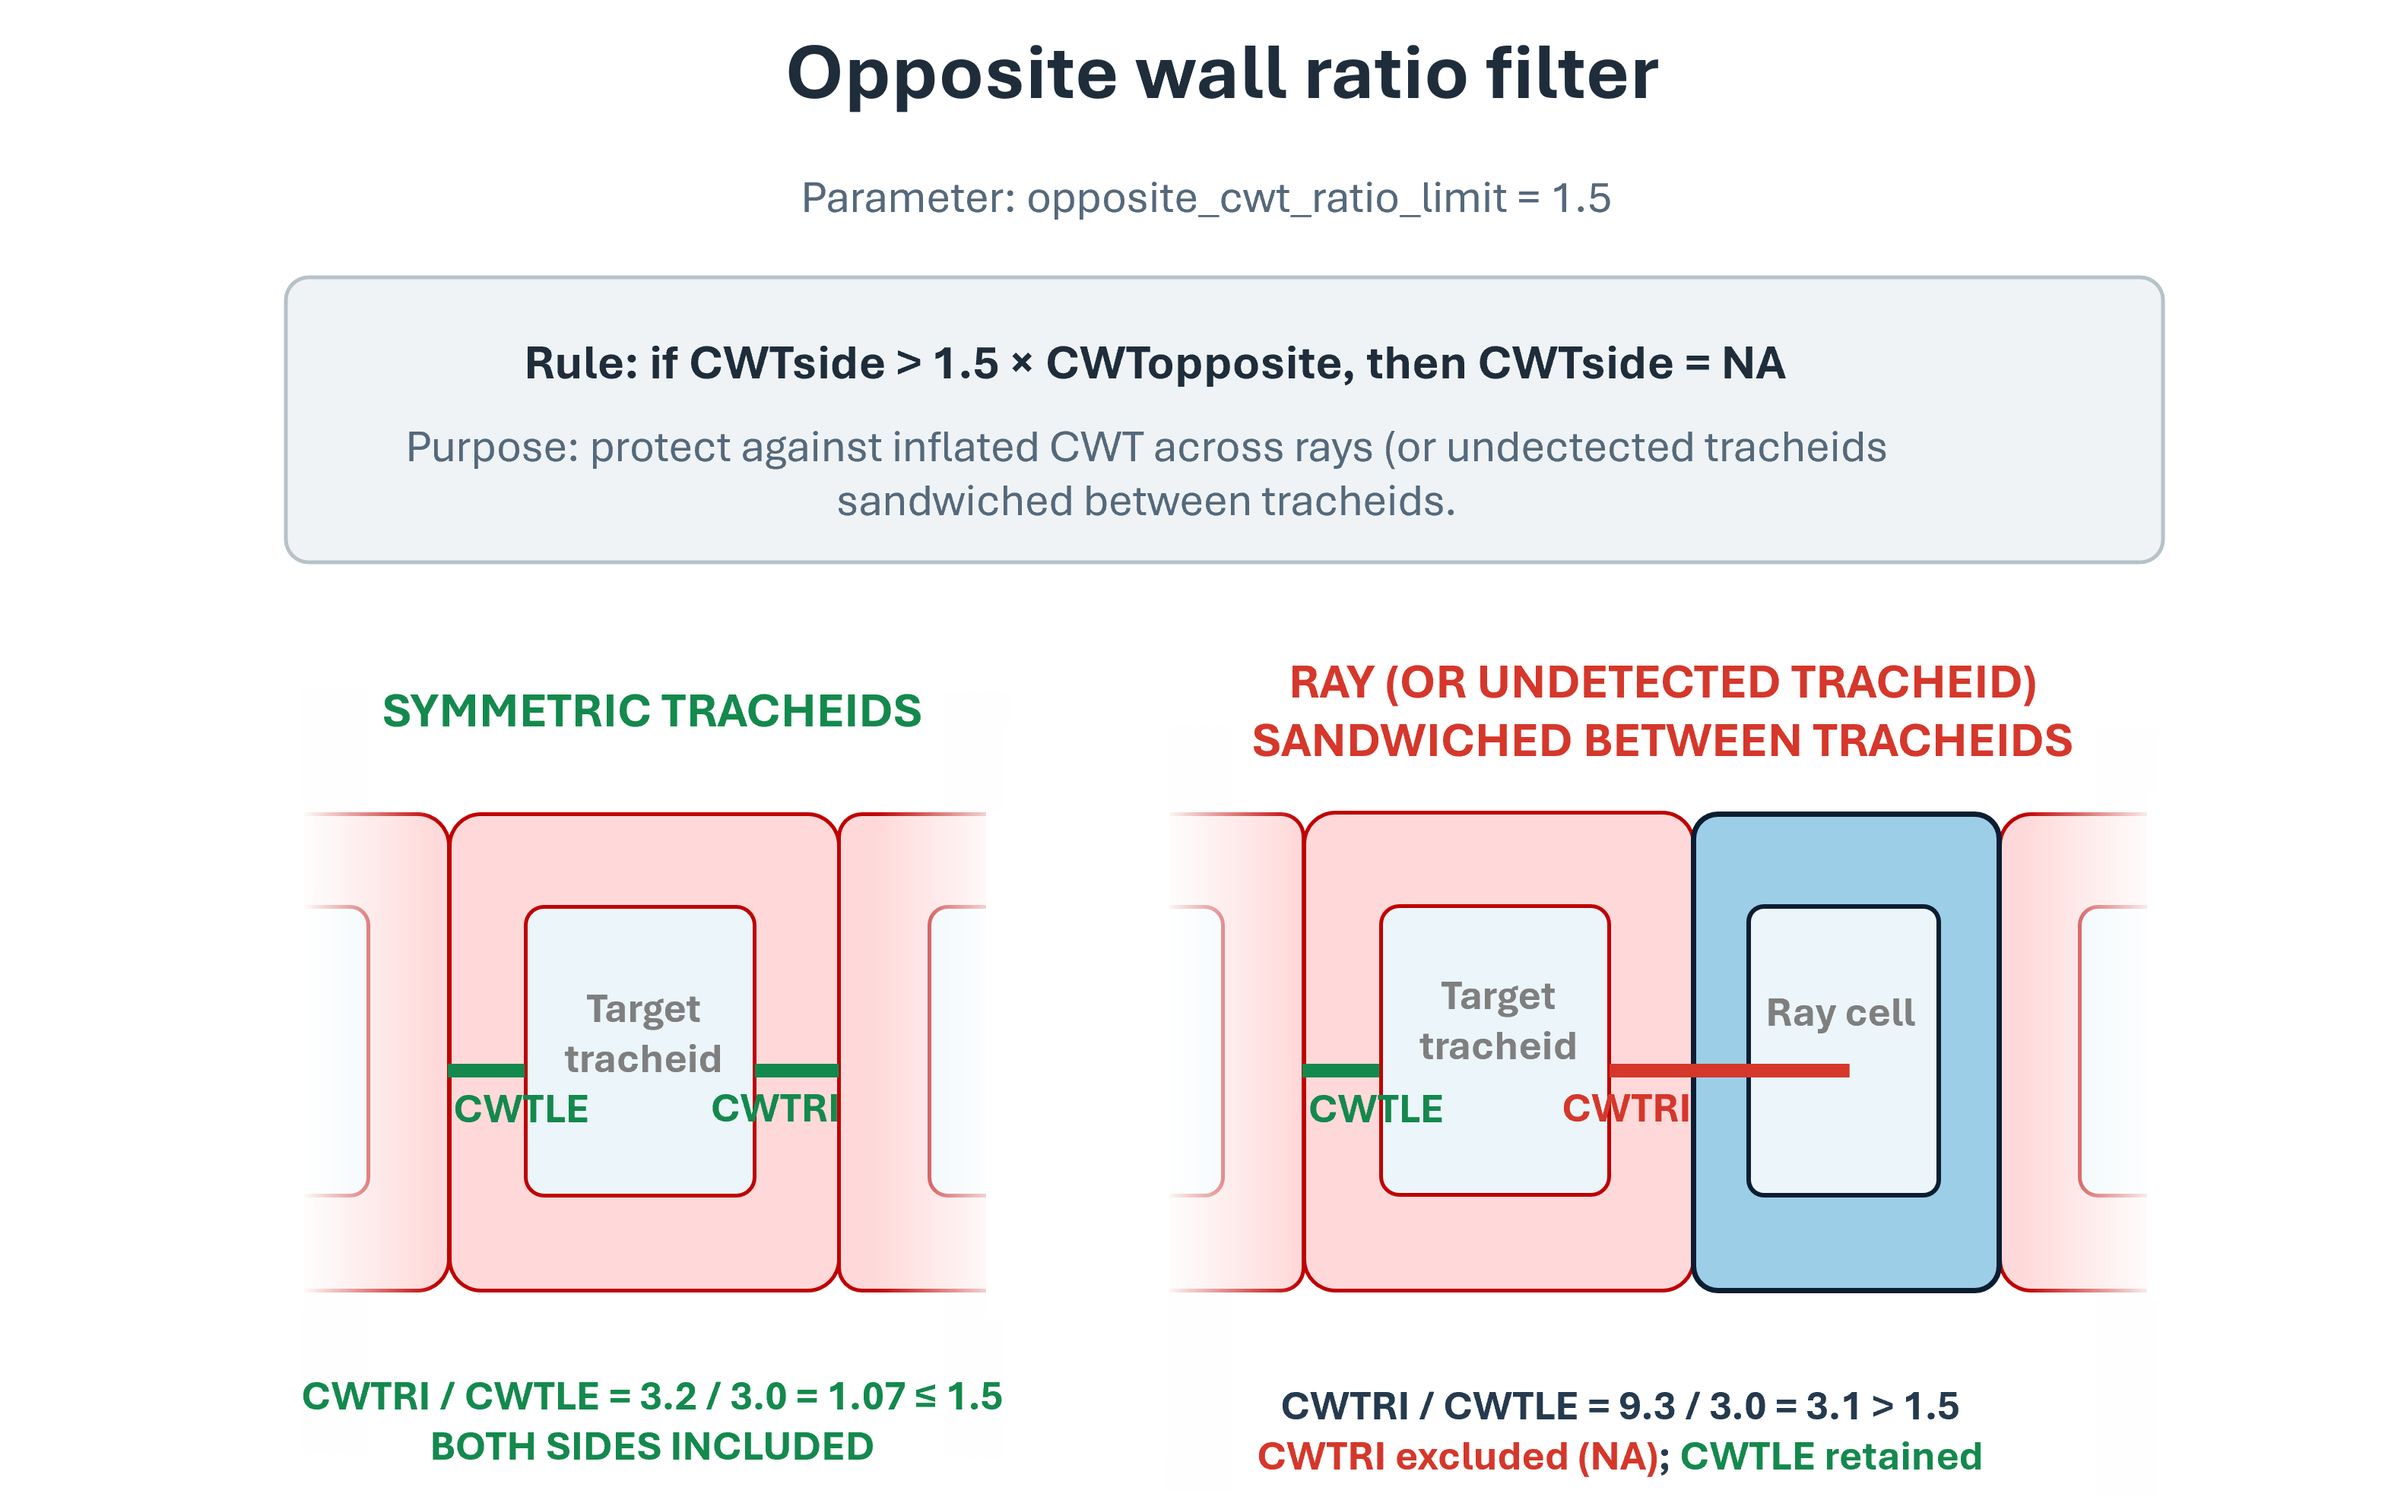
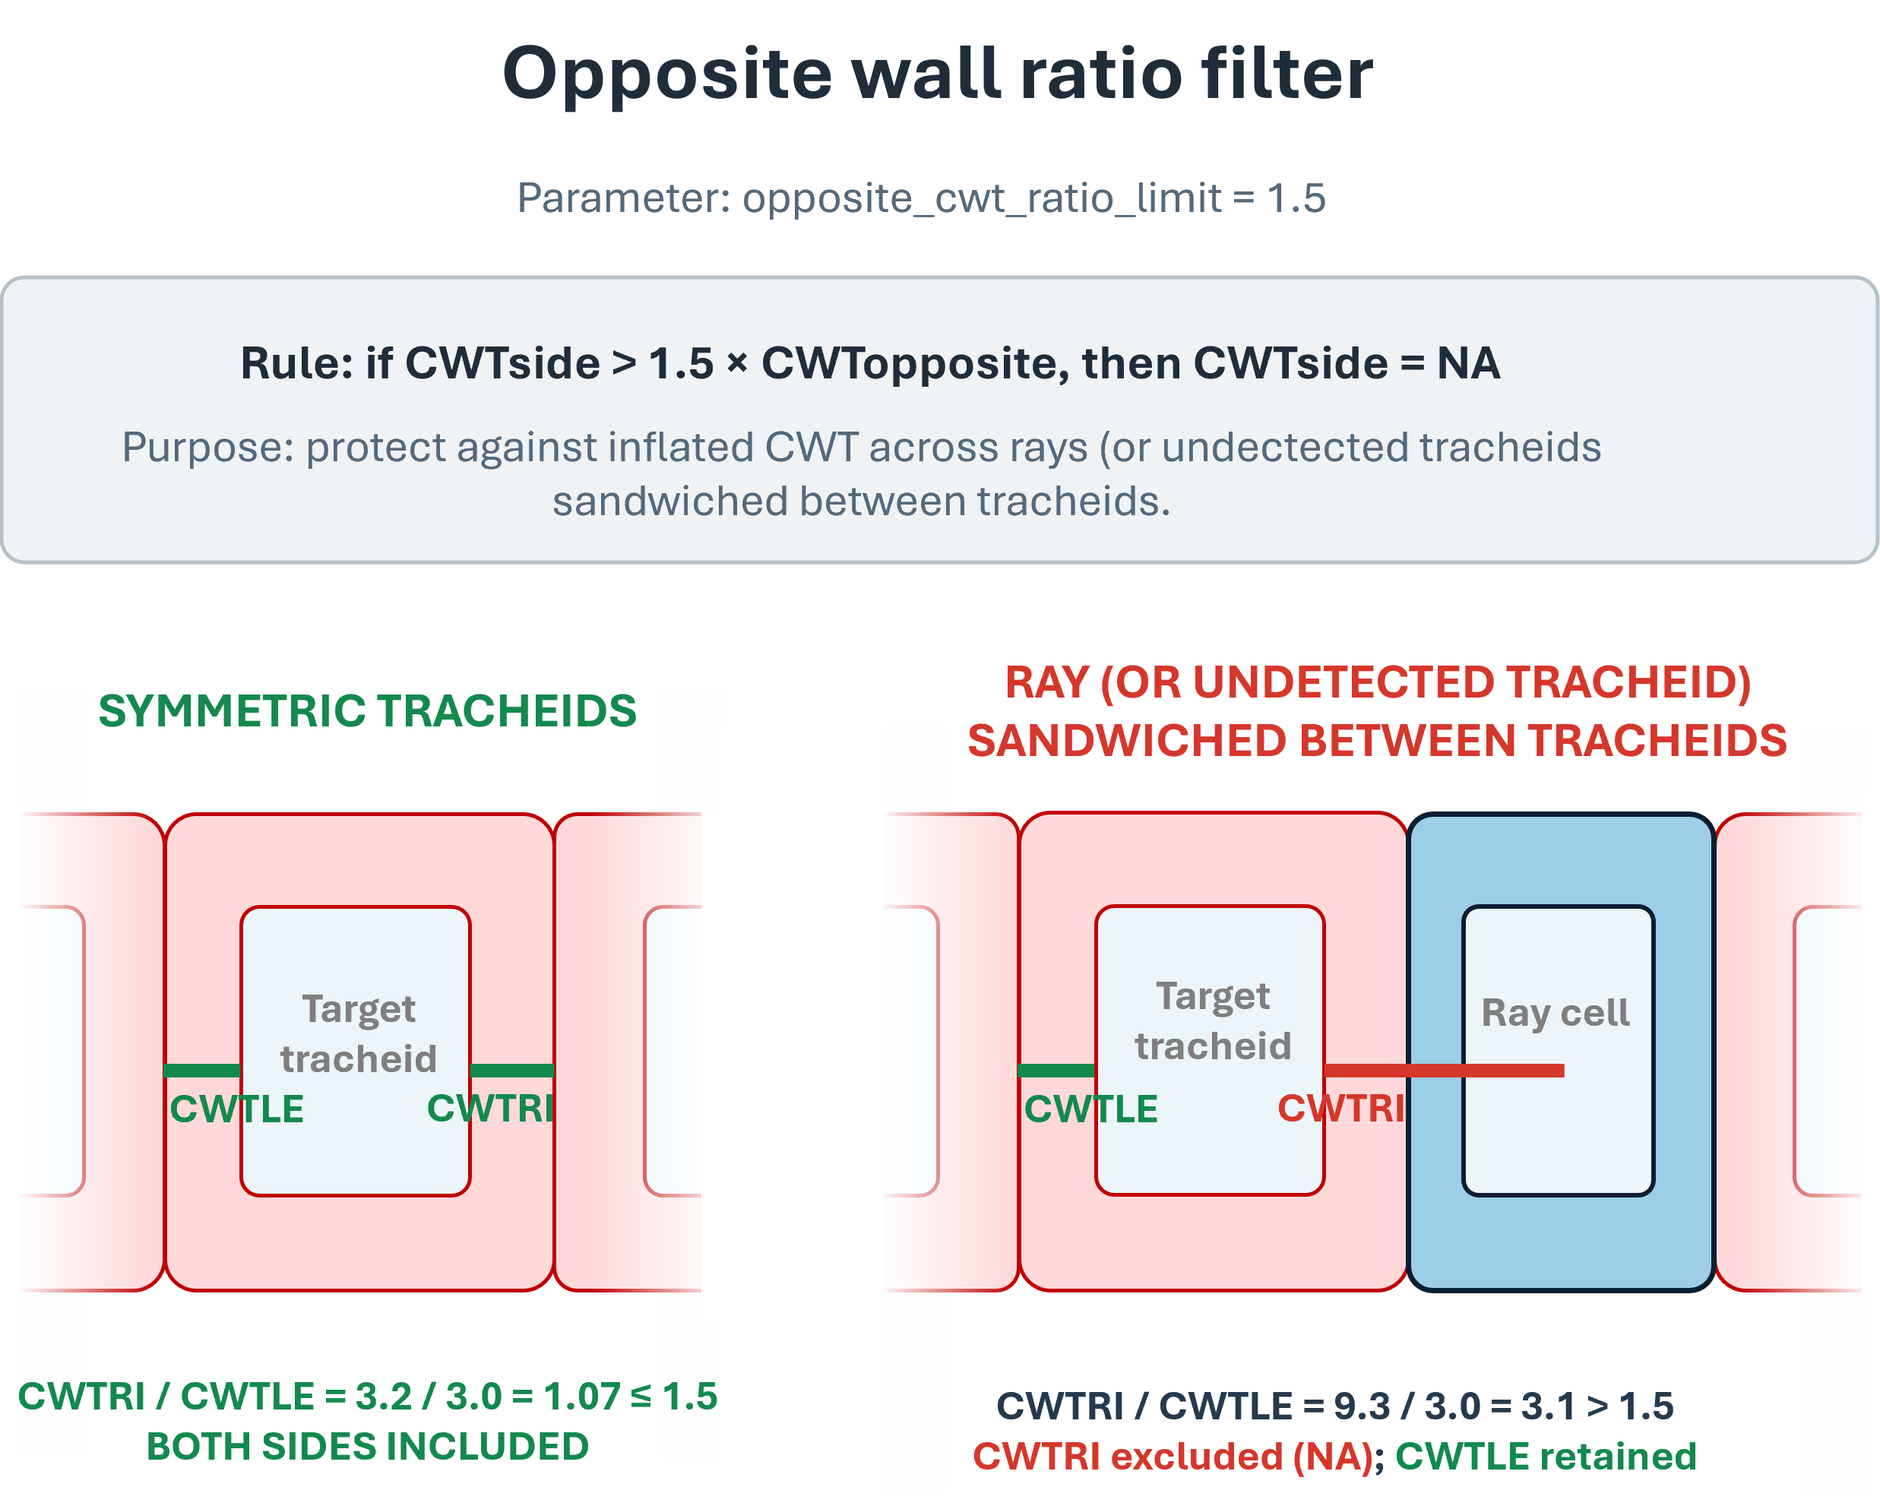
Update technical reference: add algorithm details, improve filter rules, and refine formatting for clarity and consistency.

diff --git a/docs/reference/technical_reference.md b/docs/reference/technical_reference.md
@@ -159,15 +159,23 @@ To obtain robust, artifact-free anatomical measurements, ROXAS AI applies automa
 
 *Figure 3: Definition of tangential and radial wall orientations and the central measurement integration span.*
 
+#### Cell Wall Identification Algorithm
+To measure the cell wall thickness of individual cells from segmented lumen masks, ROXAS AI uses an automated Euclidean distance and watershed-based approach:
+
+1. **Lumen Boundaries & Euclidean Distance Mask:** Based on the segmented cell lumina, an inverted binary mask is created where background and cell walls are foreground pixels. A Euclidean distance transform is calculated across this mask, computing the exact spatial distance of every wall pixel to the nearest cell lumen boundary.
+2. **Watershed Mask & Middle Lamella Approximation:** A watershed segmentation algorithm is computed between adjacent cell lumina to detect the contact boundary (the watershed line) between neighboring tracheids. Following Prendin et al. (2017), the exact position of the middle lamella separating two adjacent cells cannot be resolved directly from optical lumen contours alone; it is therefore geometrically approximated by assuming that each wall of two adjacent sharing cells has equal thickness (i.e., the middle lamella is located equidistant between the two lumina along the watershed ridge).
+3. **Lateral Integration:** For each of the four anatomical wall sectors (`CWTPI`, `CWTBA`, `CWTLE`, `CWTRI`), distance values are sampled along the watershed line. To avoid geometric distortion at rounded cell corners, measurements are laterally integrated over the central portion of the wall (defined by `relwidth_cwt_integration`, default: 75%).
+
+#### Wall Sectors & Aggregated Metrics
 For each conifer tracheid, cell walls are measured across four distinct anatomical orientations:
 
 - **Tangential walls:** `CWTPI` (pith-facing, top) and `CWTBA` (bark-facing, bottom).
 - **Radial walls:** `CWTLE` (left) and `CWTRI` (right).
 - **Integration span:** Wall thicknesses are integrated over the central span of each wall segment (defined by `relwidth_cwt_integration`, default: 75%) to avoid corner-rounding biases.
 - **Aggregated metrics:**
-  - Tangential mean: `CWTTAN` = (`CWTPI` + `CWTBA`) / 2
-  - Radial mean: `CWTRAD` = (`CWTLE` + `CWTRI`) / 2
-  - Overall mean: `CWTALL` = (`CWTTAN` + `CWTRAD`) / 2
+    - Tangential mean: `CWTTAN` = (`CWTPI` + `CWTBA`) / 2; or any of the two if the other **NA**
+    - Radial mean: `CWTRAD` = (`CWTLE` + `CWTRI`) / 2; or any of the two if the other **NA**
+    - Overall mean: `CWTALL` = (`CWTTAN` + `CWTRAD`) / 2; or any of the two if the other **NA**
 
 ### 2. Global IQR Distribution Filter / Tukey's Fences (Figure 4)
 
@@ -179,18 +187,18 @@ To exclude segmentation debris, extreme clumps, or sub-pixel erosion artifacts, 
 
 - **Lower Limit:** $\max(Q_1 - 1.5 \cdot \text{IQR},\, 1\text{ pixel in }\mu\text{m})$ (controlled by `lower_limit_cwt_iqr_multiplier`)
 - **Upper Limit:** $Q_3 + 3.0 \cdot \text{IQR}$ (controlled by `upper_limit_cwt_iqr_multiplier`)
-- Values falling outside $[LL, UL]$ are set to **blank (NA)**.
+- Values falling outside **Lower Limit:** or **Upper Limit:** are set to **blank (NA)**.
 
 ### 3. Opposite Wall Ratio Filter (Figure 5)
 
-![Opposite Wall Ratio Filter](../assets/cwt_opposite_wall_ration_filter.png)
+![Opposite Wall Ratio Filter](../assets/cwt_opposite_wall_ration_filter.png){ width="80%" }
 
 *Figure 5: Opposite wall ratio filter identifying and removing inflated wall measurements bordering ray cells.*
 
 In conifer xylem, opposing walls of a single tracheid have comparable thicknesses unless bordering a different cell type (such as wood ray cells) or an intercellular gap.
 
 - **Rule:** If the thickness of one wall exceeds `opposite_cwt_ratio_limit` $\cdot$ opposing wall thickness (default threshold: 1.5), the inflated side is excluded (**NA**), while the valid opposing side is retained.
-- **Anatomical context:** When a uniseriate ray cell is sandwiched between two tracheid files, the apparent distance measured across the ray between the tracheid lumina (`CWTRI`) becomes overly large compared to the regular tracheid-to-tracheid wall (`CWTLE`). The filter discards `CWTRI` while retaining `CWTLE`.
+- **Anatomical and technical context:** Because the distance-to-watershed algorithm assumes equal double-wall thickness between adjacent detected lumina (Prendin et al. 2017), unsegmented or narrower intervening structures like uniseriate wood ray parenchyma cells are not recognized as independent tracheid lumina. Consequently, the Euclidean distance measured across the entire ray gap between two tracheid files is assigned as a single inflated tracheid wall (`CWTRI` in Figure 5). The filter identifies this asymmetric inflation relative to the normal opposing wall (`CWTLE`), discarding the artifactual `CWTRI` measurement while preserving `CWTLE`.
 
 ### 4. Adjacent Wall Ratio Filter (Figure 6)
 
@@ -200,7 +208,7 @@ In conifer xylem, opposing walls of a single tracheid have comparable thicknesse
 
 Protects against severe local segmentation anomalies (e.g., pit aperture artifacts, small pollutions, tracheids sandwiched between two rays) that disproportionately distort a single wall relative to the tracheid's perpendicular dimensions.
 
-- **Rule:** If a tangential wall thickness exceeds `adjacent_cwt_ratio_limit` $\cdot (\text{CWTLE} + \text{CWTRI}) / 2$ (default threshold: 3.0), the distorted tangential wall is set to **NA** (and vice versa for radial walls).
+- **Rule:** If an individual tangential wall thickness exceeds `adjacent_cwt_ratio_limit` (default threshold: 3.0), the distorted tangential wall is set to **NA** (and vice versa for radial walls!).
 
 ---
 
@@ -322,4 +330,5 @@ Defines the structure, validation rules, and widget types for the input forms in
 - **Kolb & Sperry 1999**: Kolb, K. J., & Sperry, J. S. (1999). Differences in drought adaptation between subspecies of sagebrush: *Artemisia tridentata*. *Ecology*, 80(7), 2373–2384.
 - **Lewis & Boose 1995**: Lewis, A. M., & Boose, E. R. (1995). Estimating volume flow rates through xylem conduits. *American Journal of Botany*, 82(9), 1112–1116.
 - **Nonweiler 1975**: Nonweiler, T. R. F. (1975). *Computational Mathematics: An Introduction to Numerical Approximation*. Ellis Horwood.
+- **Prendin et al. 2017**: Prendin, A. L., Petit, G., Carrer, M., Fonti, P., Björklund, J., & von Arx, G. (2017). New research perspectives from a novel approach to quantify tracheid wall thickness. *Tree Physiology*, 37(7), 976–983. https://doi.org/10.1093/treephys/tpx037
 - **Tyree & Zimmermann 2002**: Tyree, M. T., & Zimmermann, M. H. (2002). *Xylem Structure and the Ascent of Sap*. Springer-Verlag.
